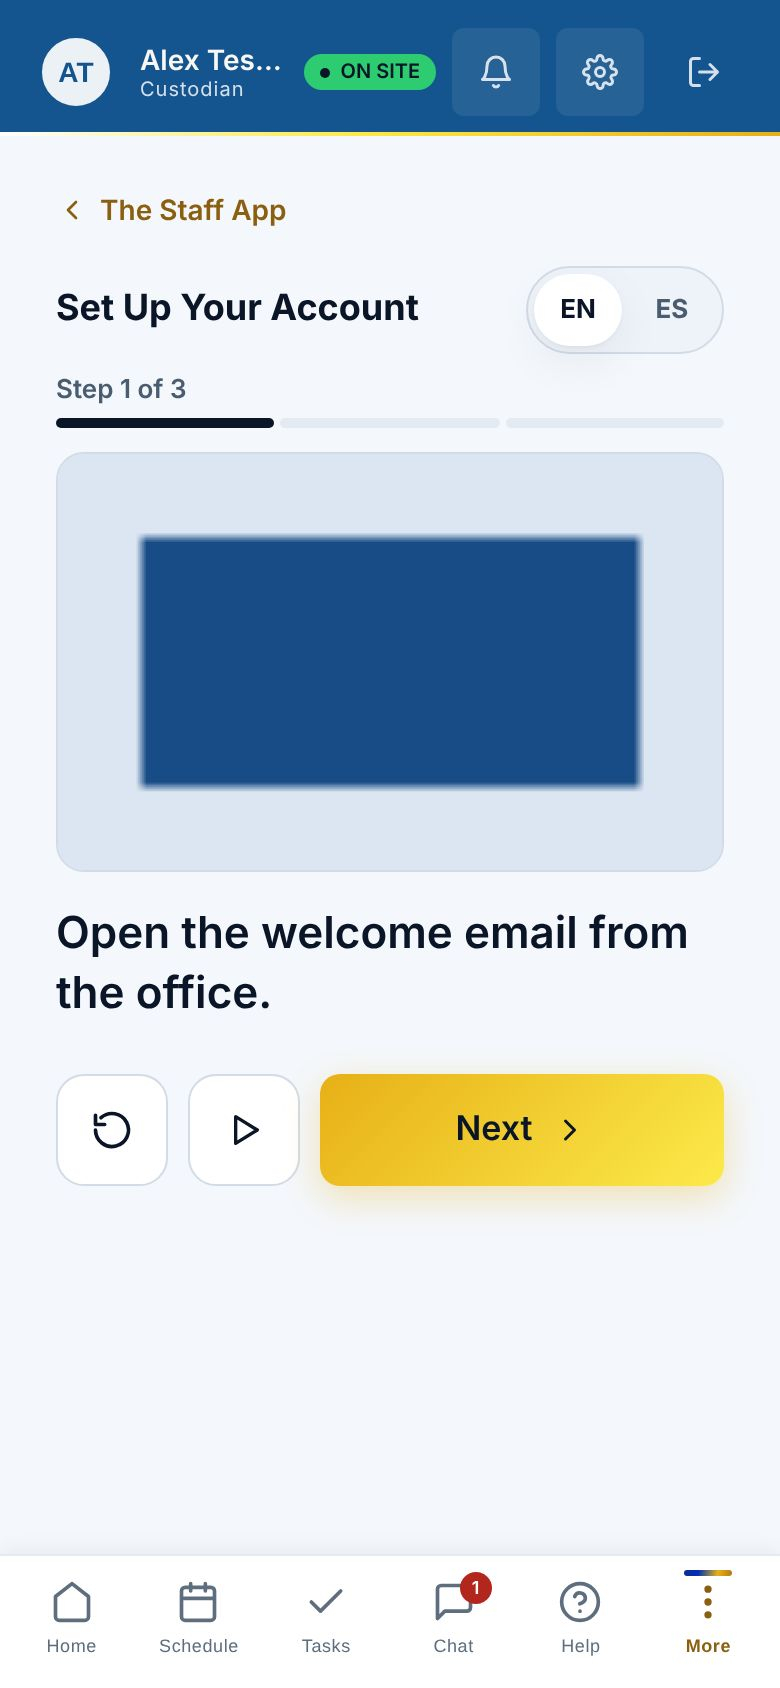
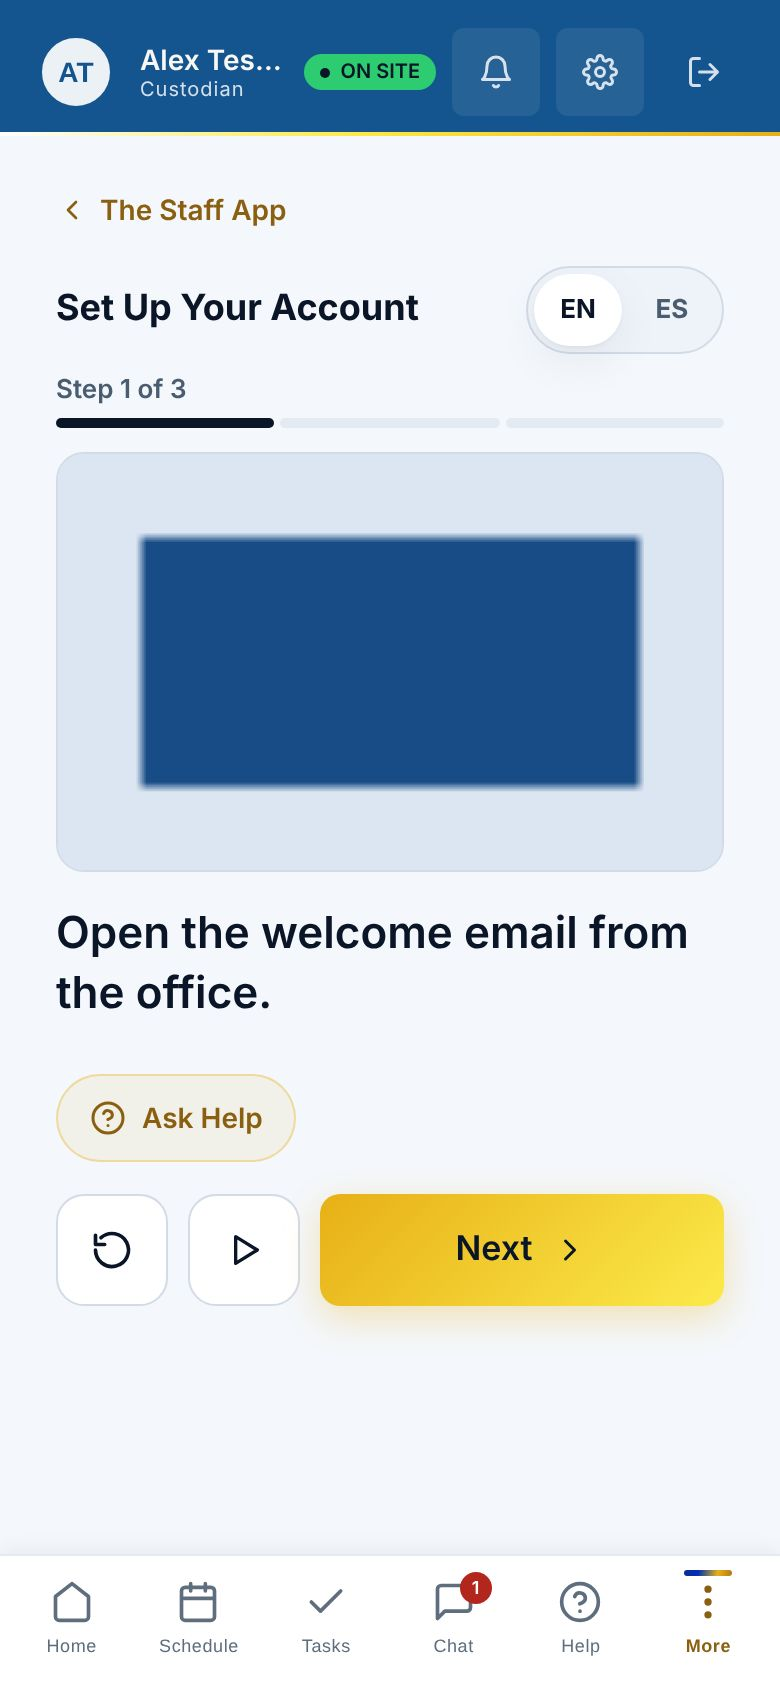
Help guide for this round's screens (part 422, section 4)
New entry at the end, with its pictures in English and Spanish: Ask Help
during a lesson (lesson-help-answer, lesson-ask-person).

Changed, each Last checked 2026-11-27 with its pictures taken again:
Watch a chapter (Ask Help on a step), Do your training on a computer
(Ask Help works there, the site is always light) and Switch between
light and dark (the training site is always light and has no switch).

No entry needed guide/no-picture.txt.

Claude-Session: https://claude.ai/code/session_01NPM9dWpBThxaKbWSUwgi1Q

Changed region(s): [[0.0615, 0.6161, 0.9538, 0.8009]]

diff --git a/audit/shots.js b/audit/shots.js
@@ -1334,7 +1334,32 @@ const SHOTS = [
       await r418Tap(s, "[data-course-panel] [data-course-next]", 1200);
       return s.waitFor(() => { const i = document.querySelector('[data-course-player-side] [data-player-image="s1"]'); return !!i && i.complete && i.naturalWidth > 0; });
     } },
+  // --- Part 422: Help as a tutor inside a lesson, against the stub's
+  // courses: the sheet over the first screen with an answer, and Ask a
+  // person filled with the question.
+  { name: "lesson-help-answer", entry: E("Ask Help during a lesson"), o: { signedIn: true, stub: { training: true, courses: true } },
+    go: (s) => r422Answered(s) },
+  { name: "lesson-ask-person", entry: E("Ask Help during a lesson"), o: { signedIn: true, stub: { training: true, courses: true } },
+    go: async (s) => {
+      if (!(await r422Answered(s))) return false;
+      await r418Tap(s, '[data-lesson-help="open"] [data-help-ask-person]', 600);
+      return s.waitFor(() => !!document.querySelector('[data-lesson-help="open"] [data-lesson-ask="edit"] [data-lesson-ask-send]'));
+    } },
 ];
+// Part 422: the first chapter's first screen, Ask Help, and a question
+// sent, until its answer is drawn.
+async function r422Answered(s) {
+  if (!(await r418Chapter(s, "co-app", "tc-setup"))) return false;
+  if (!(await s.waitFor(() => !!document.querySelector("[data-player-ask-help]")))) return false;
+  await r418Tap(s, "[data-player-ask-help]", 600);
+  if (!(await s.waitFor(() => !!document.querySelector('[data-lesson-help="open"] textarea[aria-label]')))) return false;
+  await s.type('[data-lesson-help="open"] textarea[aria-label]', s.language === "es" ? "\u00bfD\u00f3nde est\u00e1 el correo de bienvenida?" : "Where is the welcome email?");
+  await s.pause(200);
+  await r418Tap(s, '[data-lesson-help="open"] button[aria-label="' + s.say("Send") + '"]', 400);
+  if (!(await s.waitFor(() => !!document.querySelector('[data-lesson-help="open"] [data-help-ask-person]'), null, 10000))) return false;
+  await s.pause(600);
+  return true;
+}
 // Part 418: a tap on an element by its selector, then a moment.
 async function r418Tap(s, sel, ms) {
   await s.page.click(sel, { timeout: 4000 }).catch(() => {});

diff --git a/guide/APP-PORTAL.md b/guide/APP-PORTAL.md
@@ -456,9 +456,10 @@ Who can do this: anyone
 2. Once signed in, tap the gear to open **Settings** (**Ajustes**) (**Paramètres**).
 3. Under **Appearance** (**Apariencia**) (**Apparence**), tap **Light** (**Claro**) (**Clair**) or **Dark** (**Oscuro**) (**Sombre**).
 4. Until you choose, the app opens the way your phone is set: light on a phone set to light, and dark on any other. Once you choose, your choice wins, and it follows you to any phone or computer you sign in on.
+5. The training site, training.ocsaco.com, is always light and has no switch. Your choice in the app stays as it is.
 Words people use for this: dark mode, light mode, turn on dark mode, turn off dark mode, night mode, the screen is too bright, the screen is too dark, change the colors.
 Picture: appearance
-Last checked: 2026-10-02
+Last checked: 2026-11-27
 
 ## Switch the app to Spanish or English (staff portal)
 Who can do this: anyone
@@ -1750,10 +1751,11 @@ Who can do this: anyone signed in with a course
 4. A video plays with no sound and over again, with the words under it.
 5. Tap **Next** (**Siguiente**) (**Suivant**) when you are ready. What you watched is kept, so you can stop and go on later, on this phone or another one, where you left off.
 6. After the steps they are about, a few questions check what you learned (see Answer a question in a chapter (staff portal)).
+7. To ask about a step you do not understand, tap **Ask Help** (**Preguntar a Ayuda**) (**Demander à l'Aide**) above **Next** (**Siguiente**) (**Suivant**) (see Ask Help during a lesson (staff portal)). It is on the steps only, never on a question.
 If it does not work: **The picture did not load.** (**La imagen no se cargó.**) (**L'image ne s'est pas chargée.**) means a picture or video could not be shown even after the app read the chapter again; read the words and go on. **This lesson did not open. Try again.** (**Esta lección no se abrió. Intente de nuevo.**) (**Cette leçon ne s'est pas ouverte. Réessayez.**) means the chapter could not open; tap **Try again** (**Intentar de nuevo**) (**Réessayer**).
-Words people use for this: watch a chapter, play the video, the voice, listen, read it to me, next step, pause, captions, ver capítulo, escuchar, regarder un chapitre, écouter.
+Words people use for this: watch a chapter, play the video, the voice, listen, read it to me, next step, pause, captions, ask help, ver capítulo, escuchar, regarder un chapitre, écouter.
 Picture: chapter-screen
-Last checked: 2026-11-25
+Last checked: 2026-11-27
 
 ## Answer a question in a chapter (staff portal)
 Who can do this: anyone signed in with a course
@@ -1819,10 +1821,24 @@ Last checked: 2026-11-25
 Who can do this: anyone with an active account, on a computer at the office
 1. On the office computer, open training.ocsaco.com.
 2. Sign in with your badge, phone or email and your PIN, as in the app. An office account types the code from its email; the computer is never remembered.
-3. You see only your training: **My training** (**Mi capacitación**) (**Ma formation**), your courses, the chapters and your certificates, with **English** and **Español** at the top. On a wide screen a course's chapters are on the left and the chapter plays on the right.
+3. You see only your training: **My training** (**Mi capacitación**) (**Ma formation**), your courses, the chapters and your certificates, with **English** and **Español** at the top. On a wide screen a course's chapters are on the left and the chapter plays on the right. **Ask Help** (**Preguntar a Ayuda**) (**Demander à l'Aide**) works here too (see Ask Help during a lesson (staff portal)). The site is always light, whatever the computer is set to, and it does not change your light or dark choice in the app.
 4. Tap the sign-out button at the top right when you finish. After 10 minutes with nothing done, **Are you still here?** (**¿Sigue aquí?**) (**Êtes-vous toujours là ?**) asks first, with **Keep working** (**Seguir trabajando**) (**Continuer à travailler**); then it signs you out by itself. Nothing about you stays on the computer.
 5. What you do on the computer counts in the app on your phone too, and you can go on there where you left off.
 If it does not work: **You were signed out after 10 minutes with nothing done. Sign in again to go on.** (**Se cerró su sesión después de 10 minutos sin actividad. Inicie sesión de nuevo para continuar.**) (**Vous avez été déconnecté après 10 minutes sans activité. Reconnectez-vous pour continuer.**) means it signed you out to keep your account safe; sign in again and go on where you left off.
-Words people use for this: training on a computer, training website, office computer, training.ocsaco.com, signed out, capacitación en la computadora, formation sur ordinateur.
+Words people use for this: training on a computer, training website, office computer, training.ocsaco.com, signed out, dark mode on the computer, capacitación en la computadora, formation sur ordinateur.
 Picture: training-site
-Last checked: 2026-11-25
+Last checked: 2026-11-27
+
+## Ask Help during a lesson (staff portal)
+Who can do this: anyone signed in, watching a chapter in the app or on training.ocsaco.com
+1. On a step of a chapter, tap **Ask Help** (**Preguntar a Ayuda**) (**Demander à l'Aide**). It sits above **Next** (**Siguiente**) (**Suivant**), with room between them. The voice pauses.
+2. Help opens over the chapter, with the chapter's name and **Screen {n} of {total}** (**Pantalla {n} de {total}**) (**Écran {n} sur {total}**) at the top. Type your question about that step in **Type your question** (**Escriba su pregunta**) (**Écrivez votre question**) and tap **Send** (**Enviar**) (**Envoyer**). Help answers from OCSA's own documents and the words of the step, in the chapter's language.
+3. Tap **Close** (**Cerrar**) (**Fermer**), the X at the top, to go back to the same step, where you were. The voice stays paused; tap play to hear it again. Ask Help on a later step and your earlier answers are still there; the new question is about the new step.
+4. Still not clear? Under an answer, tap **Still stuck? Ask a person** (**¿Todavía tiene dudas? Preguntar a una persona**) (**Toujours bloqué ? Demander à une personne**). Your last question is filled in under **Your question** (**Su pregunta**) (**Votre question**): change it if you want and tap **Send** (**Enviar**) (**Envoyer**).
+5. **Sent. The office will answer you in Chat.** (**Enviado. La oficina le responderá en Mensajes.**) (**Envoyé. Le bureau vous répondra dans Messages.**) means it went to the office. Tap **Open Chat** (**Abrir Mensajes**) (**Ouvrir Messages**) to see the chat. From training.ocsaco.com, the answer comes in Chat in the app on your phone.
+6. Ask Help is not offered on a question, after a wrong answer, while you watch a part again, when you sign, in a quiz, in a checklist your trainer watches, or on the setup video before you sign in.
+If it does not work: with no signal, **Saved on this phone. It sends when you have signal.** (**Guardado en este teléfono. Se envía cuando tenga señal.**) (**Enregistré sur ce téléphone. Il part dès que vous avez du réseau.**) means your question to the office waits on the phone and goes by itself; on training.ocsaco.com it says **Saved in this window. It sends when the connection is back.** (**Guardado en esta ventana. Se envía cuando vuelva la conexión.**) (**Enregistré dans cette fenêtre. Il part dès que la connexion revient.**) and goes while you stay signed in. If OCSA says there is nobody to send it to, ask your supervisor: tap **Open Chat** (**Abrir Mensajes**) (**Ouvrir Messages**) to message them, or on training.ocsaco.com use the email it shows. If the button goes away on a step, Help cannot be asked about that step; go on with the chapter.
+Words people use for this: ask a question in a lesson, i do not understand this step, help during the video, ask the office about my training, ask a person, still stuck, pregunta sobre la lección, preguntar a una persona, question sur la leçon.
+Picture: lesson-help-answer
+Picture: lesson-ask-person
+Last checked: 2026-11-27

diff --git a/audit/README.md b/audit/README.md
@@ -2681,6 +2681,13 @@ the tab's `ocsa-site`), then the sign-in screen, My Training, a course,
 the player and the Help sheet at 1280 by 900 and 390 by 844, all light,
 and the staff app on the same computer, still dark.
 
+## Pictures for this round's guide entries (part 422, section 4)
+
+`audit/shots.js` takes `lesson-help-answer` (the sheet with an answer) and
+`lesson-ask-person` (the card filled with the question) for **Ask Help
+during a lesson**, and takes `chapter-screen`, `training-site` and
+`appearance` again for the entries this round changed.
+
 ## Known failures
 
 `audit/known.json` holds what the app gets wrong today. Each entry names
